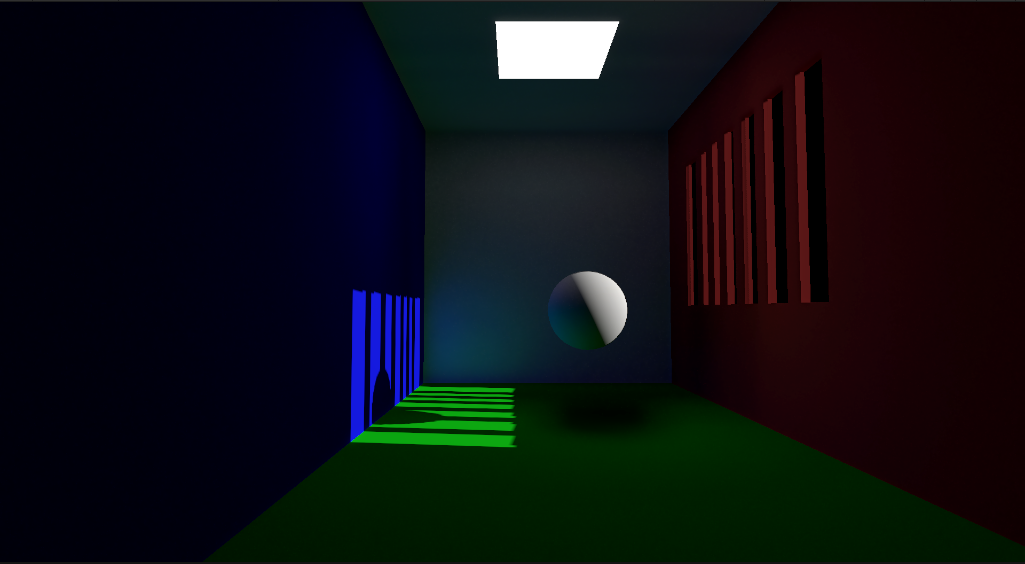
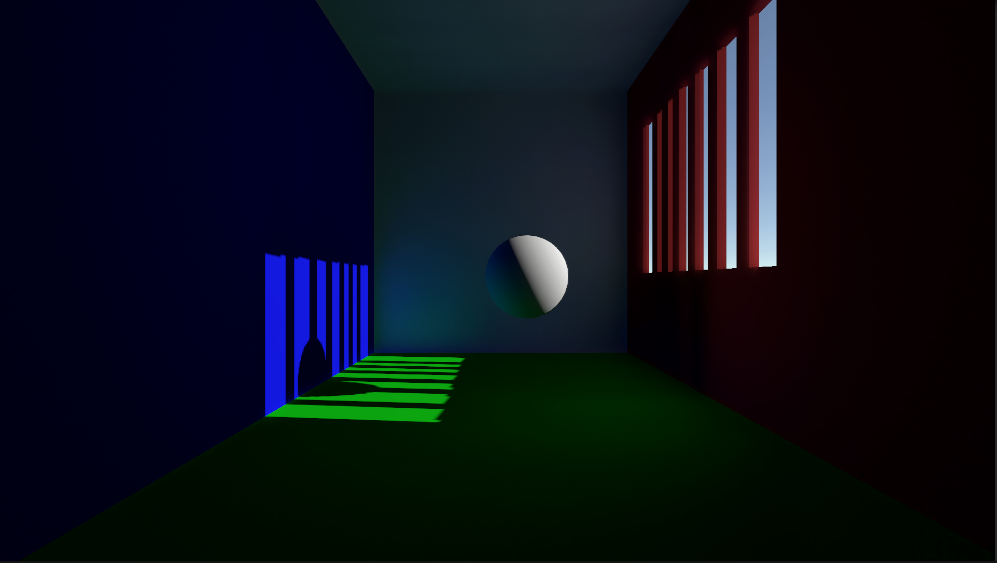
feat: 更新Readme

diff --git a/Readme.md b/Readme.md
@@ -30,3 +30,5 @@
 使用对应 Unity 版本打开工程，然后运行 `Assets/Scenes/SSGIScene.unity` 即可查看效果。Renderer Feature 的采样数量、光线步数、最大距离、时间累积、模糊范围和半分辨率选项可在 URP Renderer Asset 中调整。
 
 > 本工程用于实时渲染技术实验。SSGI 依赖当前屏幕中的深度、法线和颜色信息，屏幕外光源或遮挡物不会参与计算。
+
+![SSGI Sponza](ReadmeImgs/image-20260729021256545.png)
